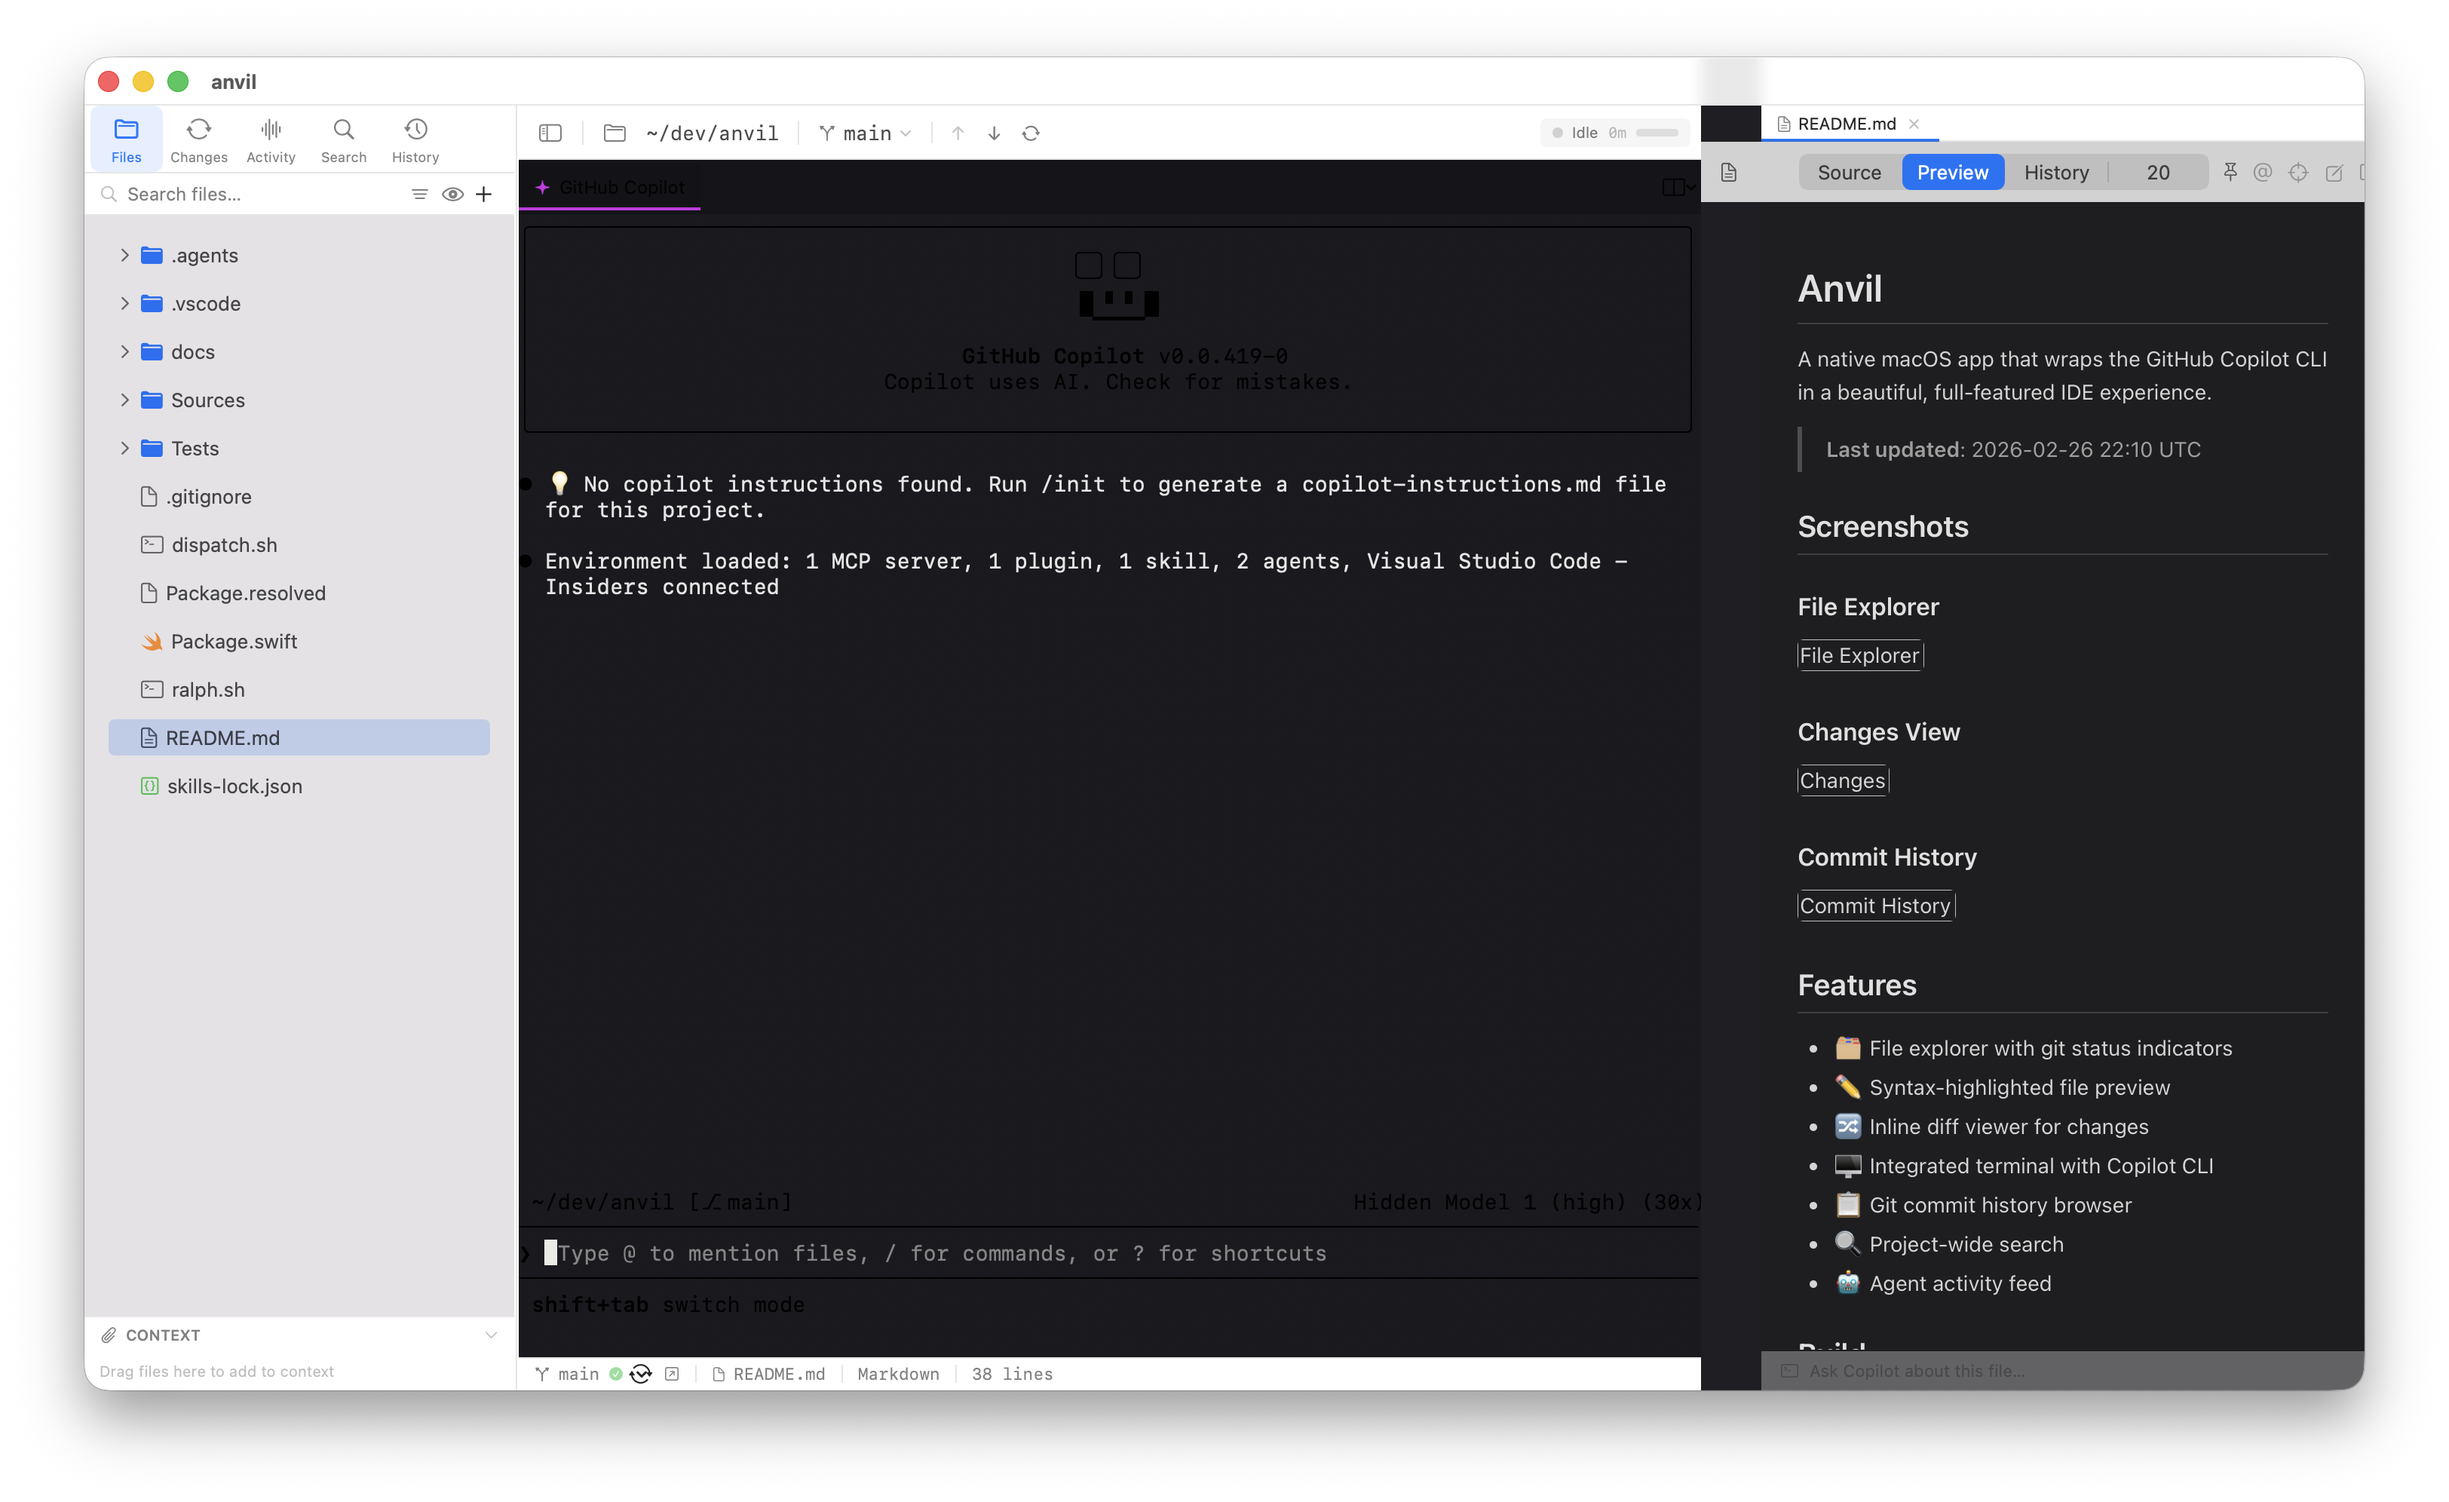
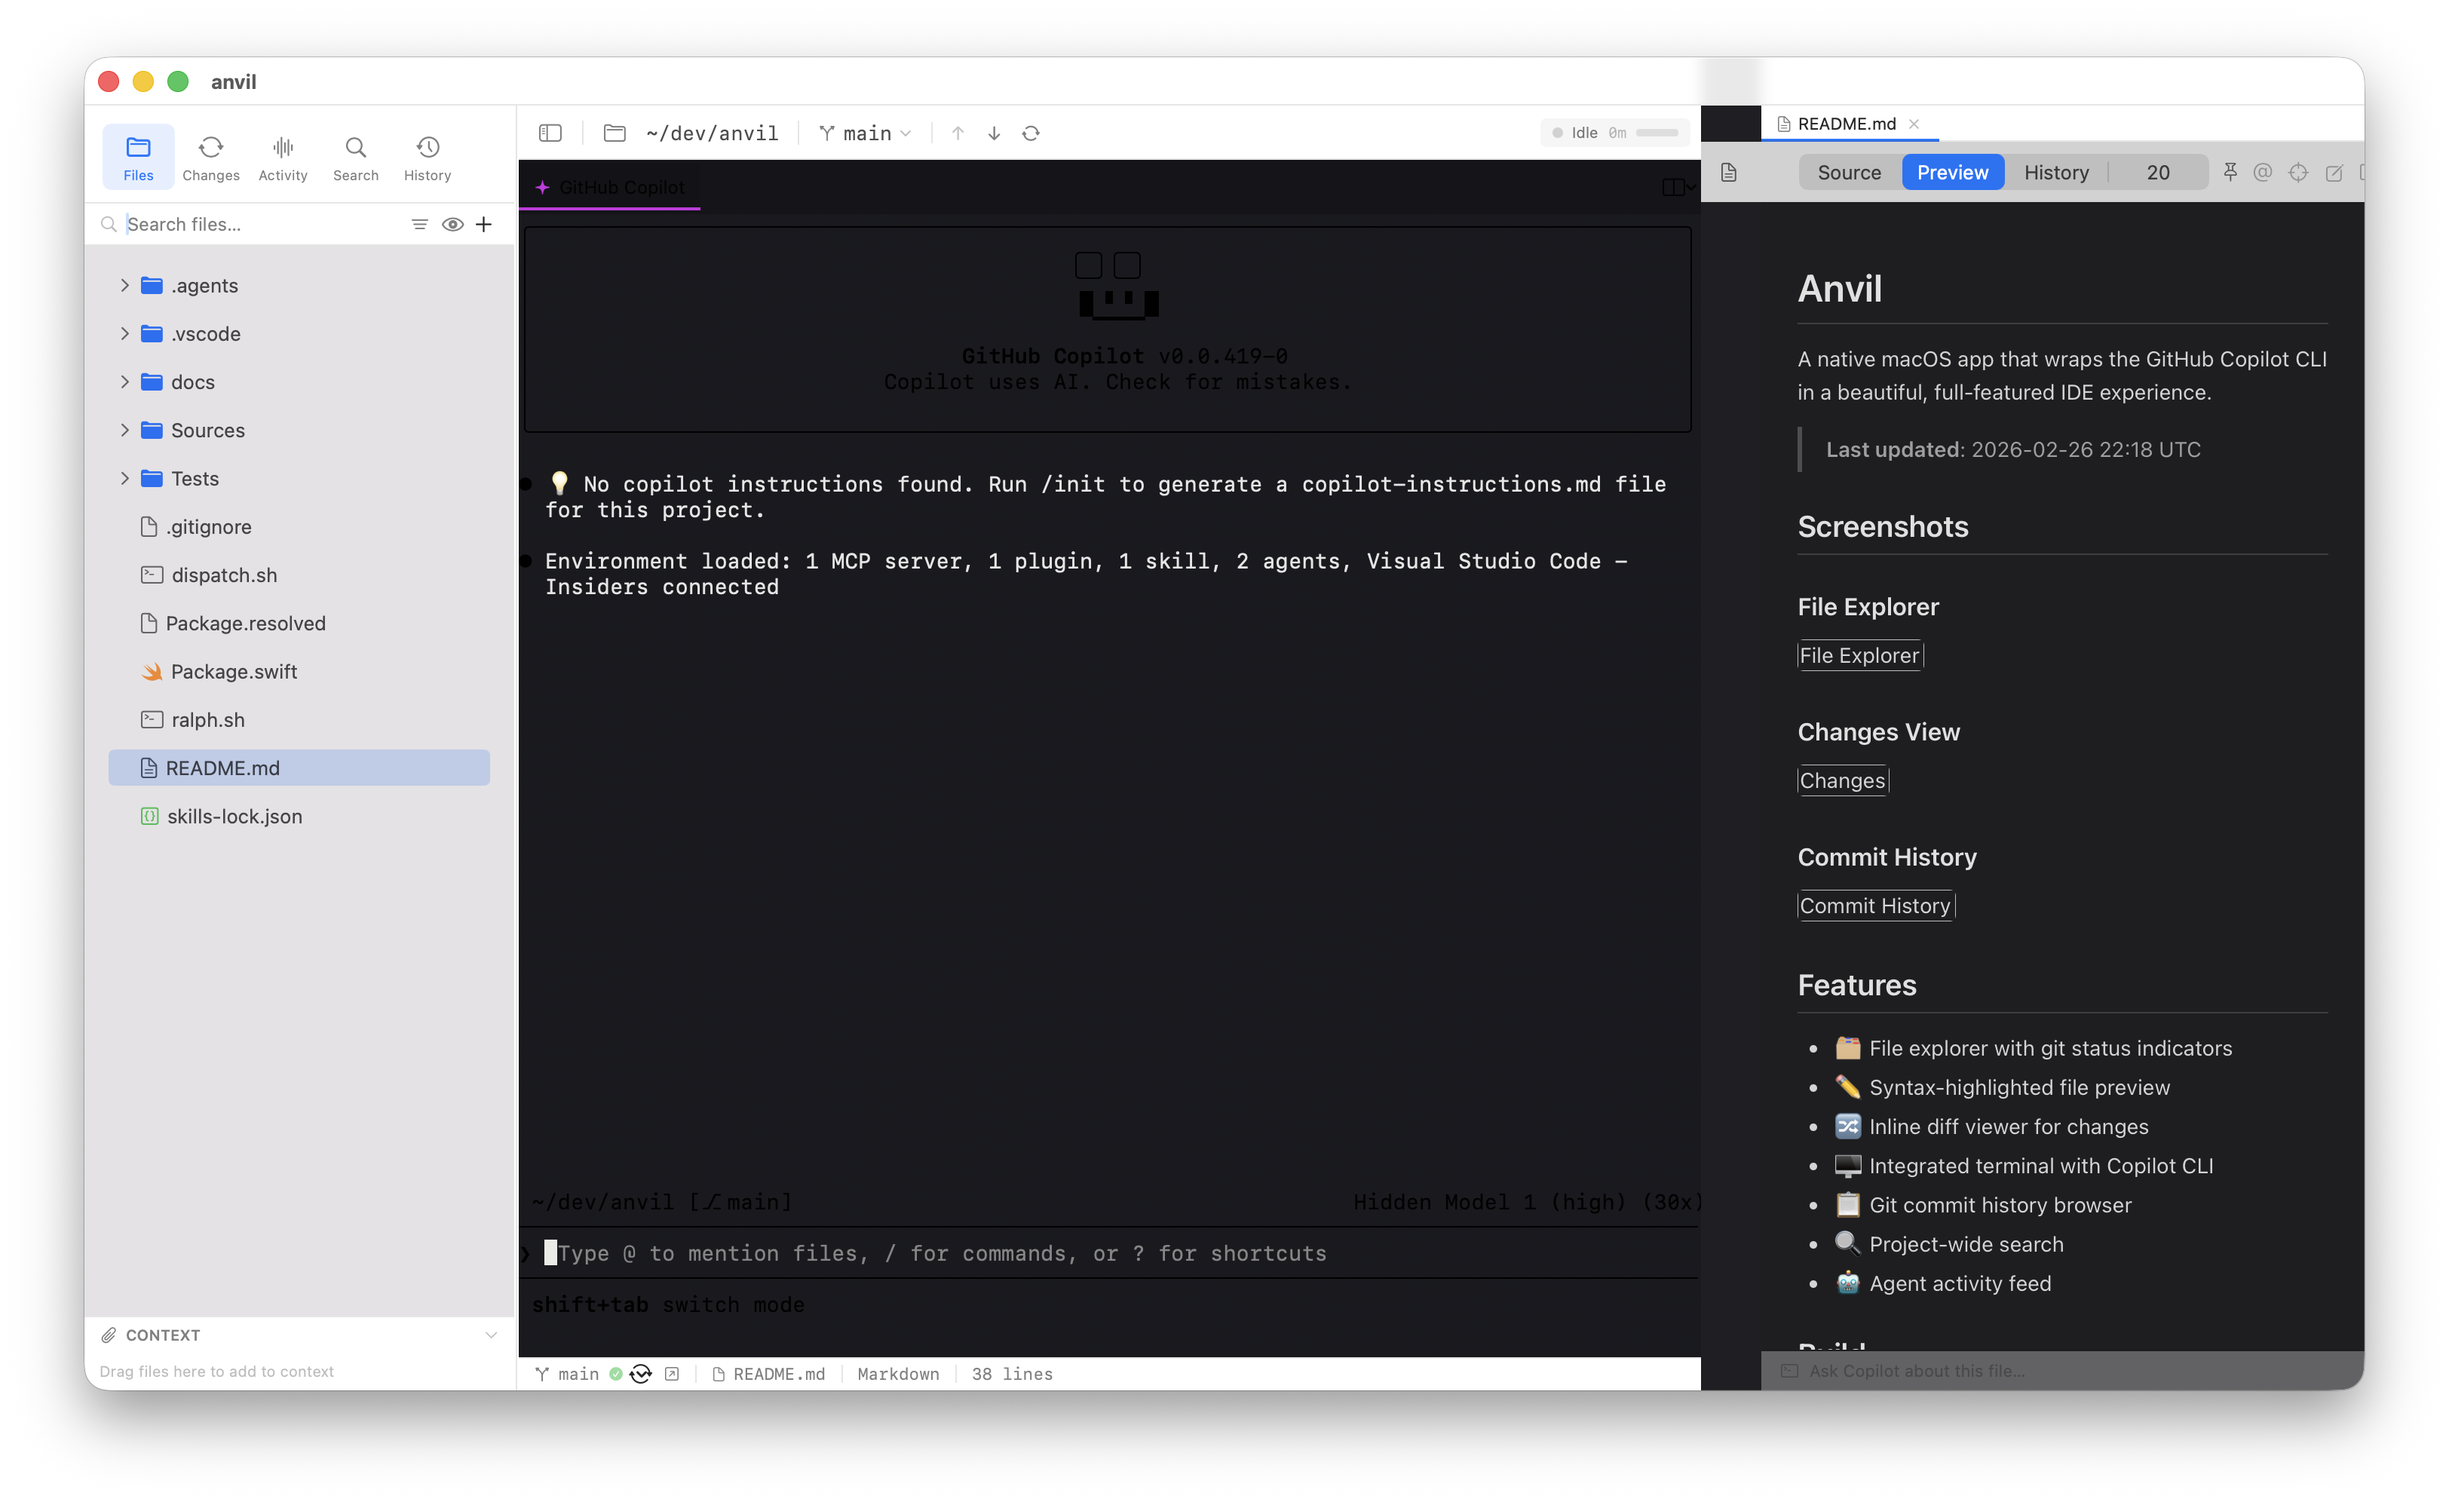
docs: update app screenshots and README (2026-02-26 22:24 UTC)

Changed region(s): [[0.0311, 0.0934, 0.2177, 0.5602]]

diff --git a/README.md b/README.md
@@ -2,7 +2,7 @@
 
 A native macOS app that wraps the GitHub Copilot CLI in a beautiful, full-featured IDE experience.
 
-> **Last updated**: 2026-02-26 22:18 UTC
+> **Last updated**: 2026-02-26 22:24 UTC
 
 ## Screenshots
 
